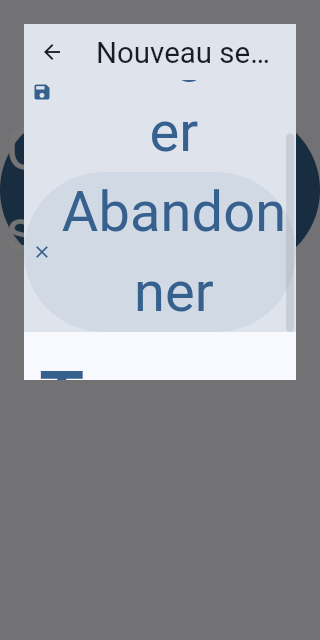
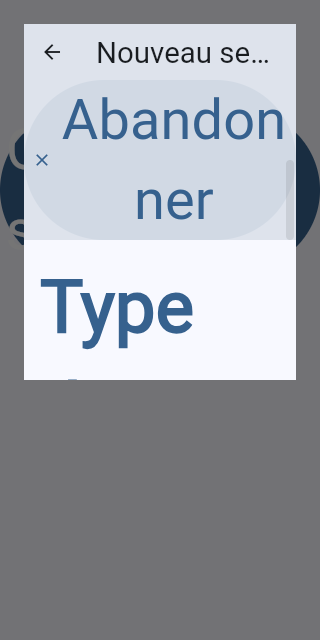
fix(mcp): preserve focused field above keyboard

diff --git a/tests/pages/mcp_server_config_page_test.dart b/tests/pages/mcp_server_config_page_test.dart
@@ -237,14 +237,25 @@ void main() {
       stdio: false,
     );
 
+    final form = find.byType(ListView).last;
+    final nameField = find.byType(TextField).first;
+    expect(nameField, findsOneWidget);
+    await tester.ensureVisible(nameField);
+    await tester.pump(const Duration(milliseconds: 300));
+    await tester.tap(nameField);
+    await tester.pump();
+    expect(tester.testTextInput.isVisible, isTrue);
+
     tester.view.viewInsets = const FakeViewPadding(bottom: 260);
     await tester.pump(const Duration(milliseconds: 300));
 
-    final appBar = tester.widget<AppBar>(find.byType(AppBar).last);
-    expect(appBar.bottom!.preferredSize.height, lessThan(320));
-    expect(appBar.bottom!.preferredSize.height, greaterThan(240));
     expect(find.byType(SingleChildScrollView), findsOneWidget);
+    expect(tester.getSize(form).height, greaterThan(140));
     final visibleArea = const Rect.fromLTWH(0, 0, 320, 380);
+    await tester.ensureVisible(nameField);
+    await tester.pump(const Duration(milliseconds: 300));
+    expect(visibleArea.contains(tester.getRect(nameField).topLeft), isTrue);
+    expect(visibleArea.contains(tester.getRect(nameField).bottomRight), isTrue);
     for (final label in [find.text('Enregistrer'), find.text('Abandonner')]) {
       final button =
           find.ancestor(of: label, matching: find.byType(TextButton)).first;

diff --git a/lib/pages/mcp_server_config_page.dart b/lib/pages/mcp_server_config_page.dart
@@ -605,11 +605,11 @@ class _McpServerConfigDialogState
     final tallCompactAppBar = compactAppBarHeight > kToolbarHeight + 120;
     final scrollWholeDialog = compactAppBar &&
         ((screenSize.height <= 480 && tallCompactAppBar) ||
-            (!keyboardVisible && compactAppBarHeight > dialogHeight));
+            compactAppBarHeight + 120 > desiredDialogHeight);
     var compactActionsViewportHeight = _compactAppBarActionsHeight;
     if (keyboardVisible && !scrollWholeDialog) {
       final availableActionHeight =
-          (dialogHeight - kToolbarHeight - 48).clamp(0.0, double.infinity);
+          (dialogHeight - kToolbarHeight - 140).clamp(0.0, double.infinity);
       if (availableActionHeight < compactActionsViewportHeight) {
         compactActionsViewportHeight = availableActionHeight;
       }

diff --git a/docs/ui-constrained-text-qa/round11-mcp-action-height/README.md b/docs/ui-constrained-text-qa/round11-mcp-action-height/README.md
@@ -14,7 +14,7 @@ These screenshots come from the production `showMcpServerConfigDialog` route, op
 
 At 320 × 640, the dialog is 272 dp wide. Before the fix, both compact action slots were fixed at 72 dp; French labels wrapped to two lines and the label exceeded that slot. The production render now measures each compact row at 160 dp, making the AppBar 376 dp tall with the complete “Enregistrer” and “Abandonner” labels visible. The 240 × 640 fitting English render measures both rows at the original 48 dp, with one-line labels.
 
-At 320 × 640 before the keyboard inset, the measured 376 dp AppBar fits within the 544 dp dialog, leaving 168 dp of form content and preserving the original non-outer-scroll layout. With a 260 dp bottom view inset, the dialog uses the remaining 356 dp and reserves 48 dp for form content. The 252 dp action viewport scrolls internally, keeping the complete Save and Discard rows reachable above the inset. The paired keyboard captures show Save and Discard in their respective scroll positions and check their bounds against the 380 dp visible area; the widget regression verifies both action labels and buttons fit there and can activate Discard. The inset is simulated through `MediaQuery.viewInsets` because the browser capture does not render an OS keyboard.
+At 320 × 640 before the keyboard inset, the measured 376 dp AppBar fits within the 544 dp dialog, leaving 168 dp of form content and preserving the original non-outer-scroll layout. With a 260 dp bottom view inset, the dialog uses the remaining 356 dp and reserves 140 dp for form content. The 160 dp action viewport scrolls internally, keeping each complete Save and Discard row reachable above the inset. The paired keyboard captures show Save and Discard in their respective scroll positions and check their bounds against the 380 dp visible area; the widget regression focuses the native name field, verifies its full bounds and both action buttons, and activates Discard. The inset is simulated through `MediaQuery.viewInsets` because the browser capture does not render an OS keyboard.
 
 At 320 × 320, the two 160 dp action rows plus the toolbar exceed the dialog's 272 dp height. The full dialog content uses one vertical scroll owner so the title, both complete action rows, and the form remain reachable. Gestures over the form can scroll back to either action. The two short-viewport screenshots show the initial Save row and the scrolled Discard row; the production capture verifies both action bounds are inside the viewport in their respective scroll positions.
 
